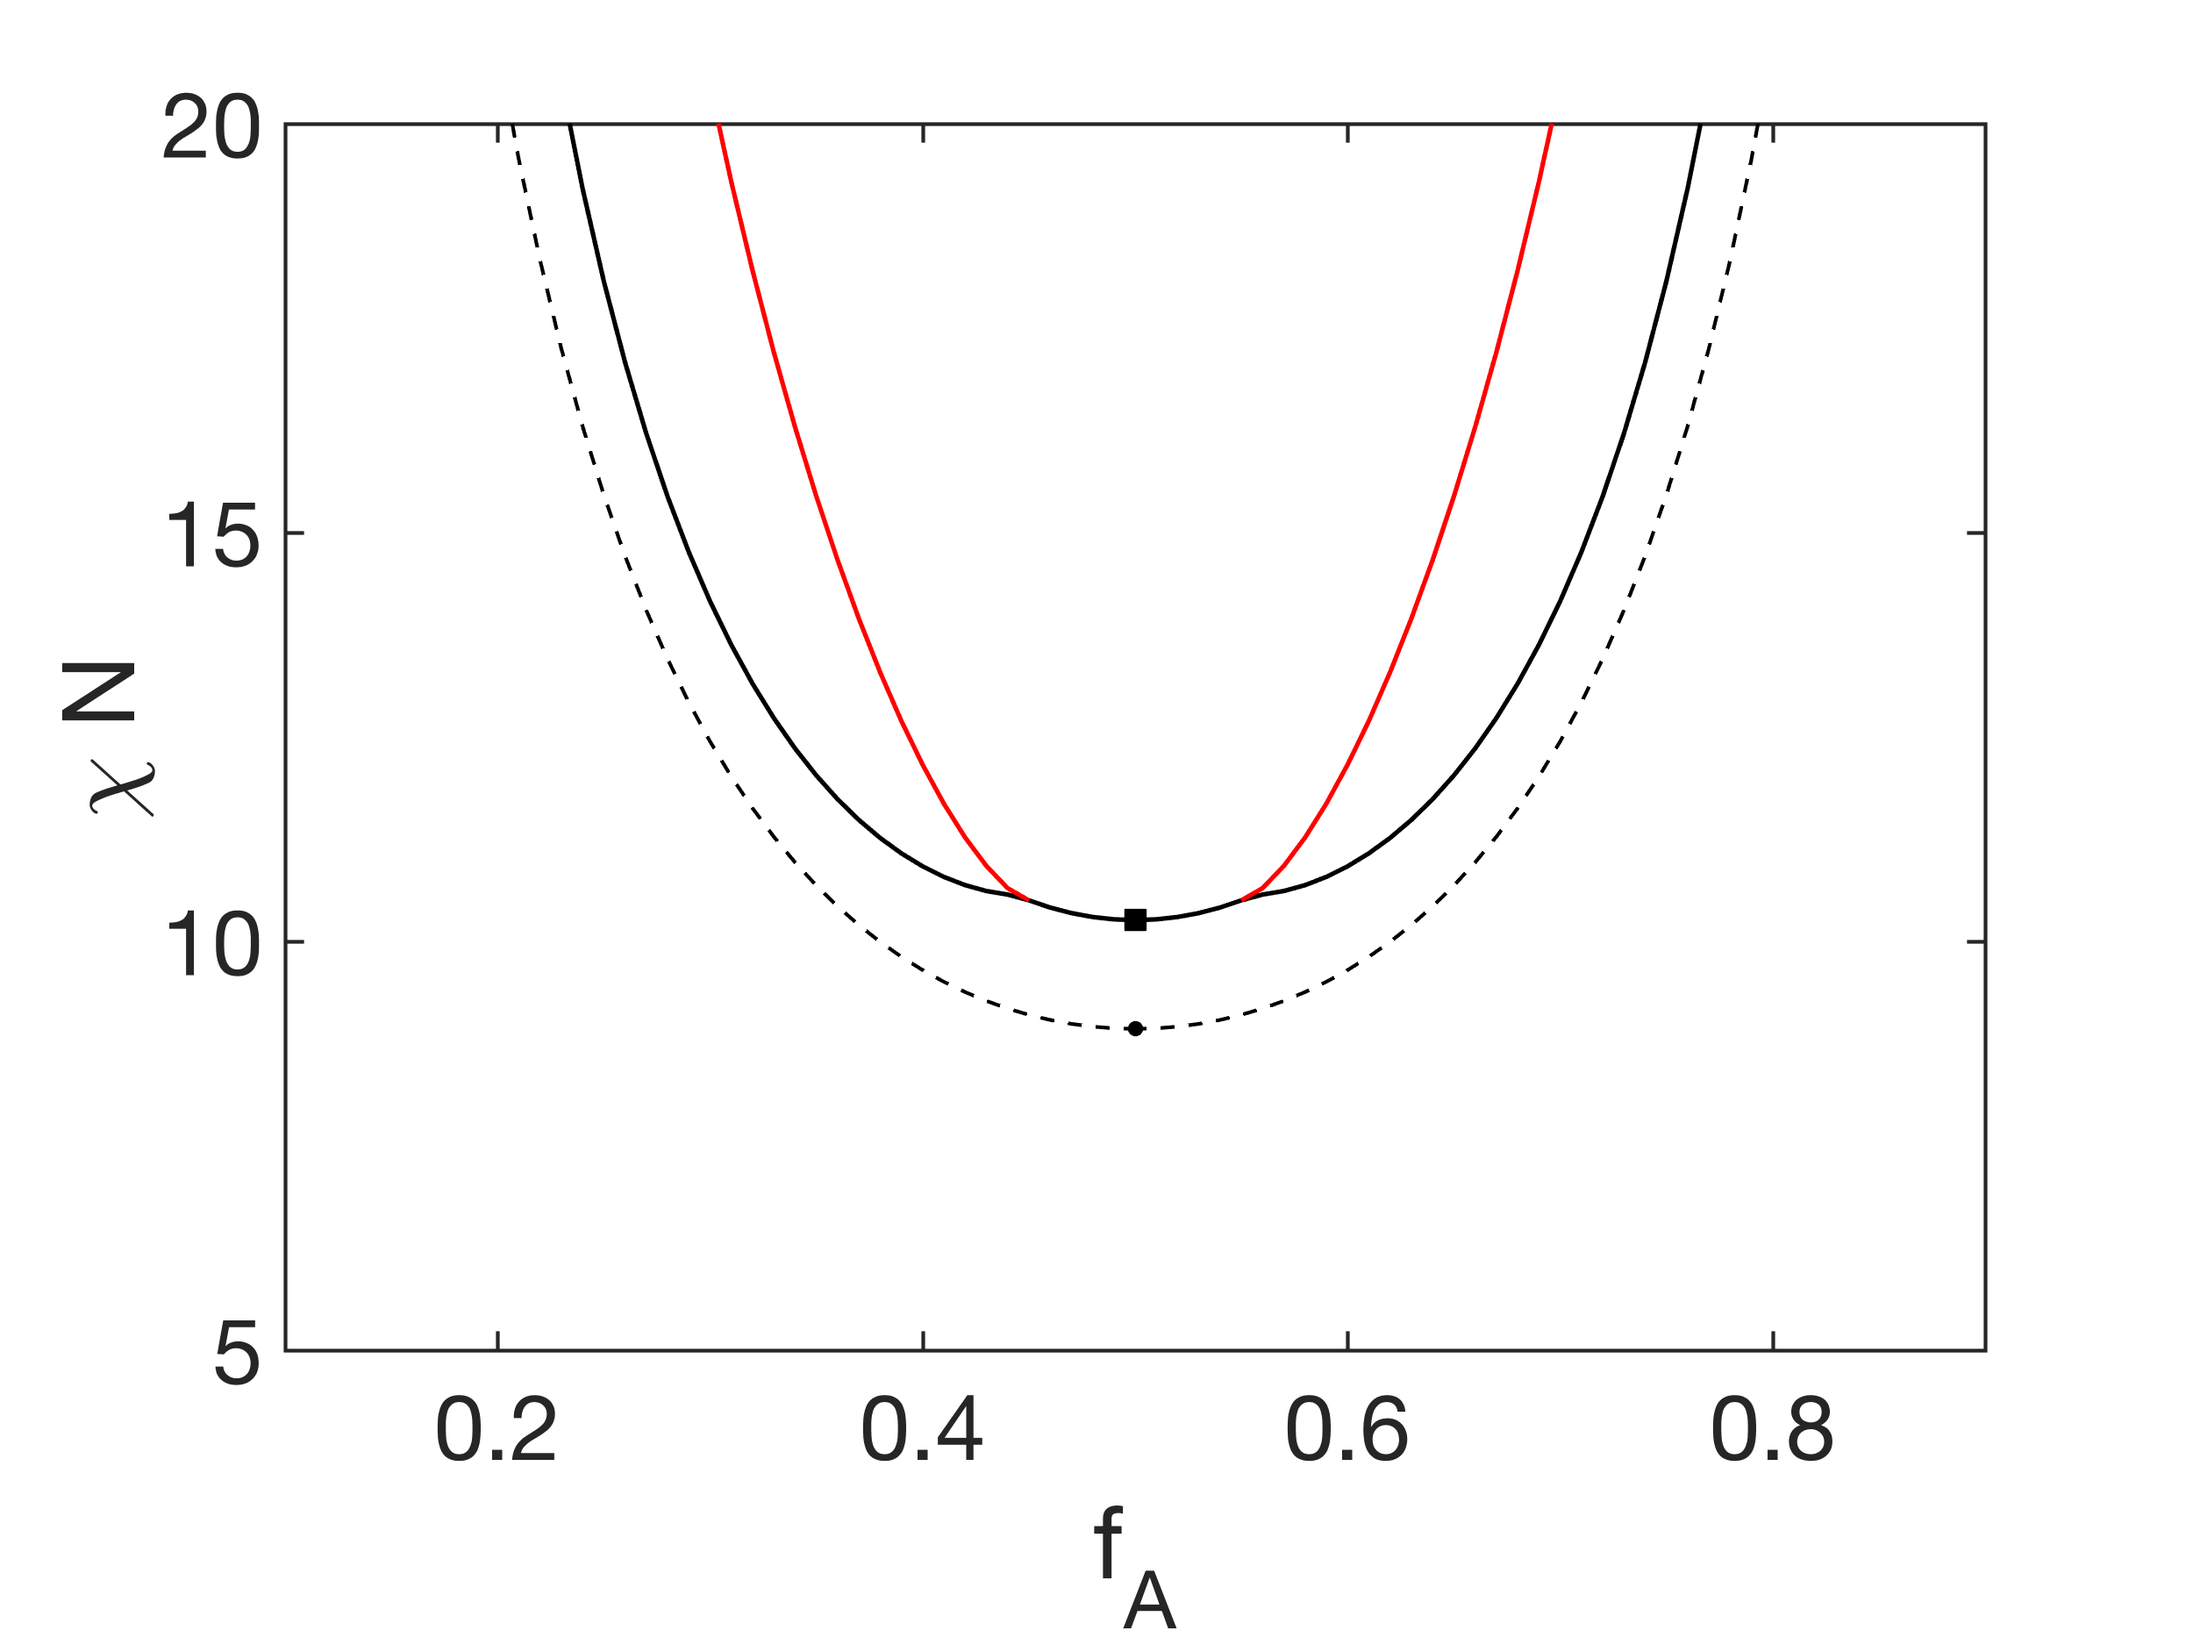
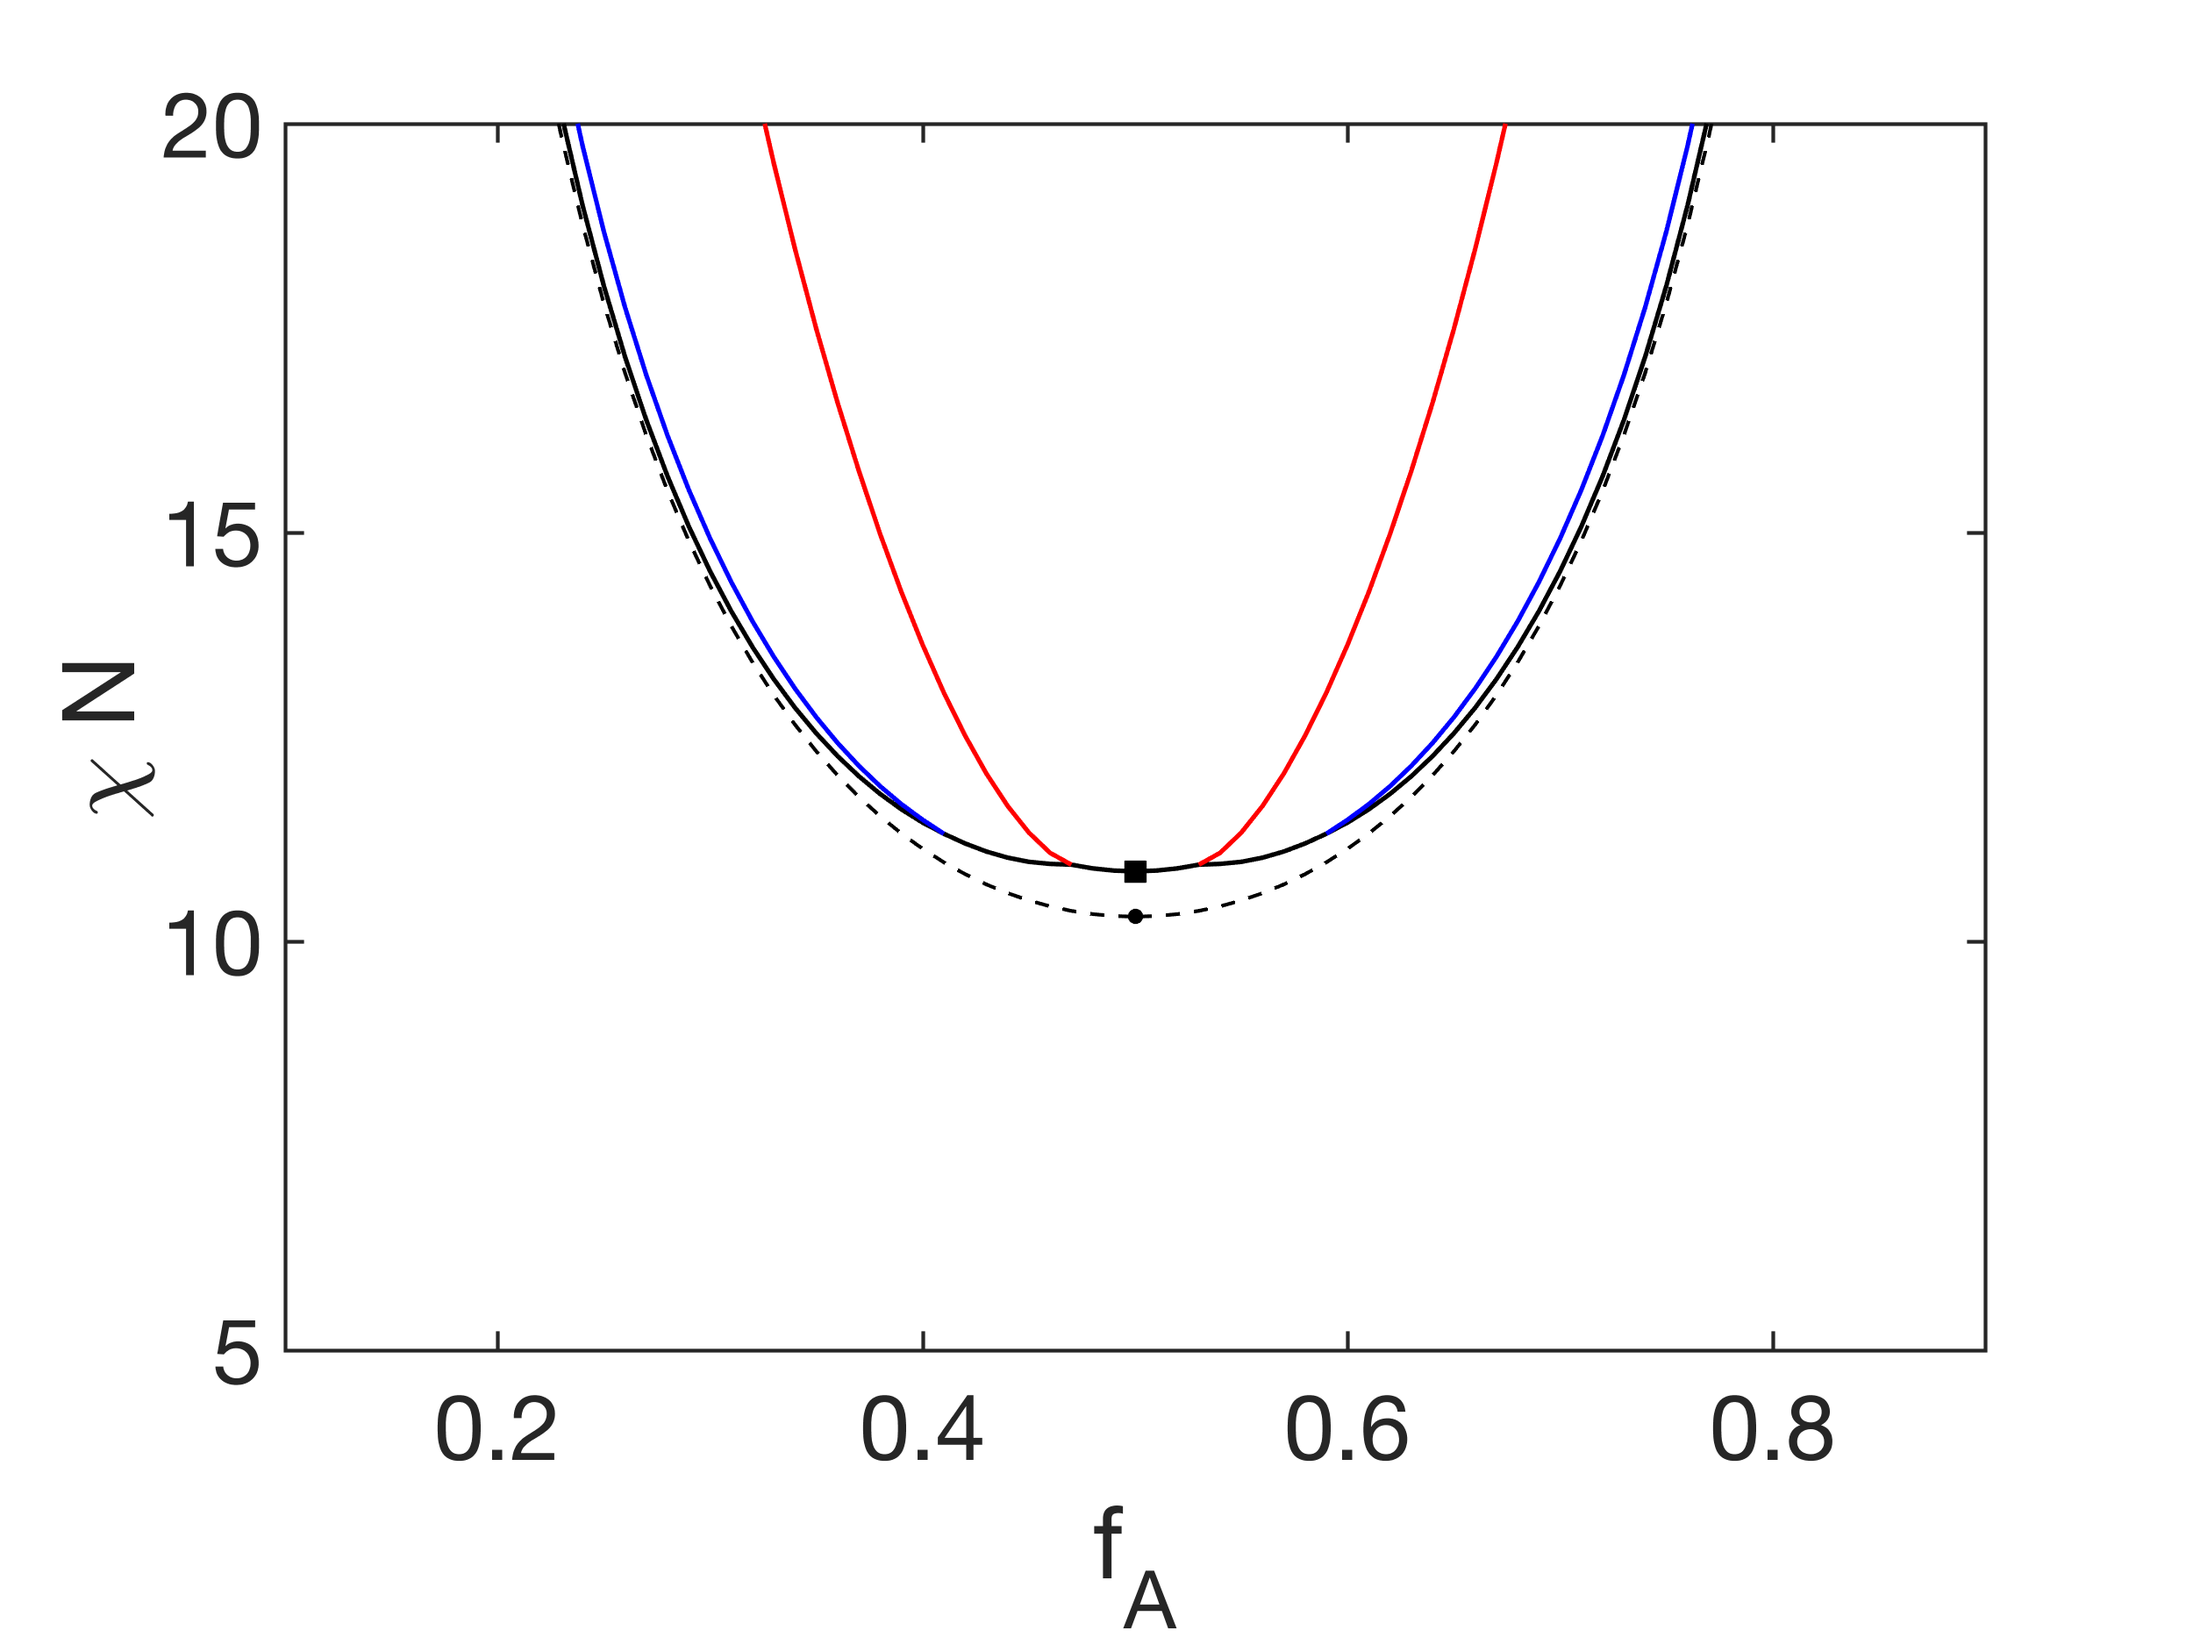
improved example and readme

diff --git a/example.m b/example.m
@@ -1,4 +1,4 @@
-clear;
+clear;close all
 addpath('functions')
 addpath('chainstats')
 addpath('misc')
@@ -6,10 +6,9 @@ addpath('chainstats/eigcalc')
 addpath('chainstats/integrals')
 
 %%%%%%%%%%%%%%%% SAME MOLECULAR WEIGHT EXAMPLES %%%%%%%%%%%%%%%%
-N=10;  % number of statistical steps of total chain
+N=100;  % number of statistical steps of total chain
 FAV=linspace(0.1,0.5,41);  % range of A monomer chemical composition
-alpha=4;  % dimensionless excluded volume parameter in the Gaussian limit
-        % In the Gaussian chain limit, Nbar = C^2
+alpha=4;  % chain aspect ratio
 
 % Figure 1: make a mean-field phase diagram
 plotphase(N,FAV);
@@ -24,29 +23,32 @@ densityRG(N,alpha,0.5);
 % Figure 5-6: mean-field spinodal and critical wavelength at FA=0.5
 NV=logspace(-1,4,21)';  % number of statistical steps of total chain
 chis=zeros(length(NV),1);
+ks=zeros(length(NV),1);
 for ii = 1:length(NV)
-    [chis(ii),ks,d2gam2]=spinodal(NV(ii),0.5);
+    [chis(ii),ks(ii),d2gam2]=spinodal(NV(ii),0.5);
 end
 
 figure;hold;set(gca,'fontsize',20);
-plot(NV,chis.*NV,'linewidth',2);
+plot(NV,chis.*NV,'k-','linewidth',2);
 set(gca,'xscale','log');set(gca,'yscale','linear');
+xlim([NV(1),NV(end)])
 xlabel('N');ylabel('\chiN');box on
 
 figure;hold;set(gca,'fontsize',20);
-plot(NV,1./ks,'linewidth',2);
+plot(NV,1./ks,'k-','linewidth',2);
 set(gca,'xscale','log');set(gca,'yscale','log');
+xlim([NV(1),NV(end)])
 xlabel('N');ylabel('1/q^*');box on
 
-% Figure 7: renormalized spinodal at FA=0.5
+% Figure 7: renormalized ODTs at FA=0.5
 chit=zeros(length(NV),1);
 for ii = 1:length(NV)
     [chit(ii),phase]=spinodalRG(NV(ii),alpha,0.5);
 end
 figure;hold;set(gca,'fontsize',20)
-col='b';
-plot(NV,chis.*NV,'-','linewidth',2,'color',col)
-plot(NV,chit.*NV,'s-','MarkerSize',8,'MarkerFaceColor',col,'MarkerEdgeColor',col);
+plot(NV,chis.*NV,'k--','linewidth',2)
+plot(NV,chit.*NV,'k-','MarkerSize',8)
+xlim([NV(1),NV(end)])
 set(gca,'xscale','log')
 
 % Figure 8-9: vertex functions
